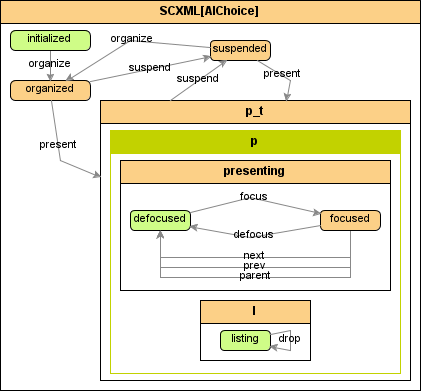
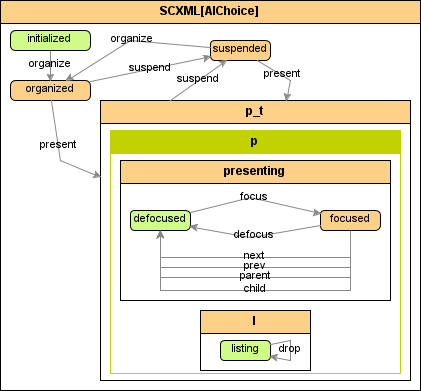
added focused, child, defocused transition

Changed region(s): [[0.4632, 0.7059, 0.7411, 0.9514], [0.2779, 0.7366, 0.3088, 0.7673]]

diff --git a/lib/MINT-core/model/aui/AIChoice.rb b/lib/MINT-core/model/aui/AIChoice.rb
@@ -33,6 +33,7 @@ module MINT
                   trans :focused, :next, :defocused, :focus_next,  Proc.new { exists_next}
                   trans :focused, :prev, :defocused, :focus_previous, Proc.new { exists_prev}
                   trans :focused, :parent, :defocused, :focus_parent
+                  trans :focused, :child, :defocused, :focus_child
 
                 end
               end
